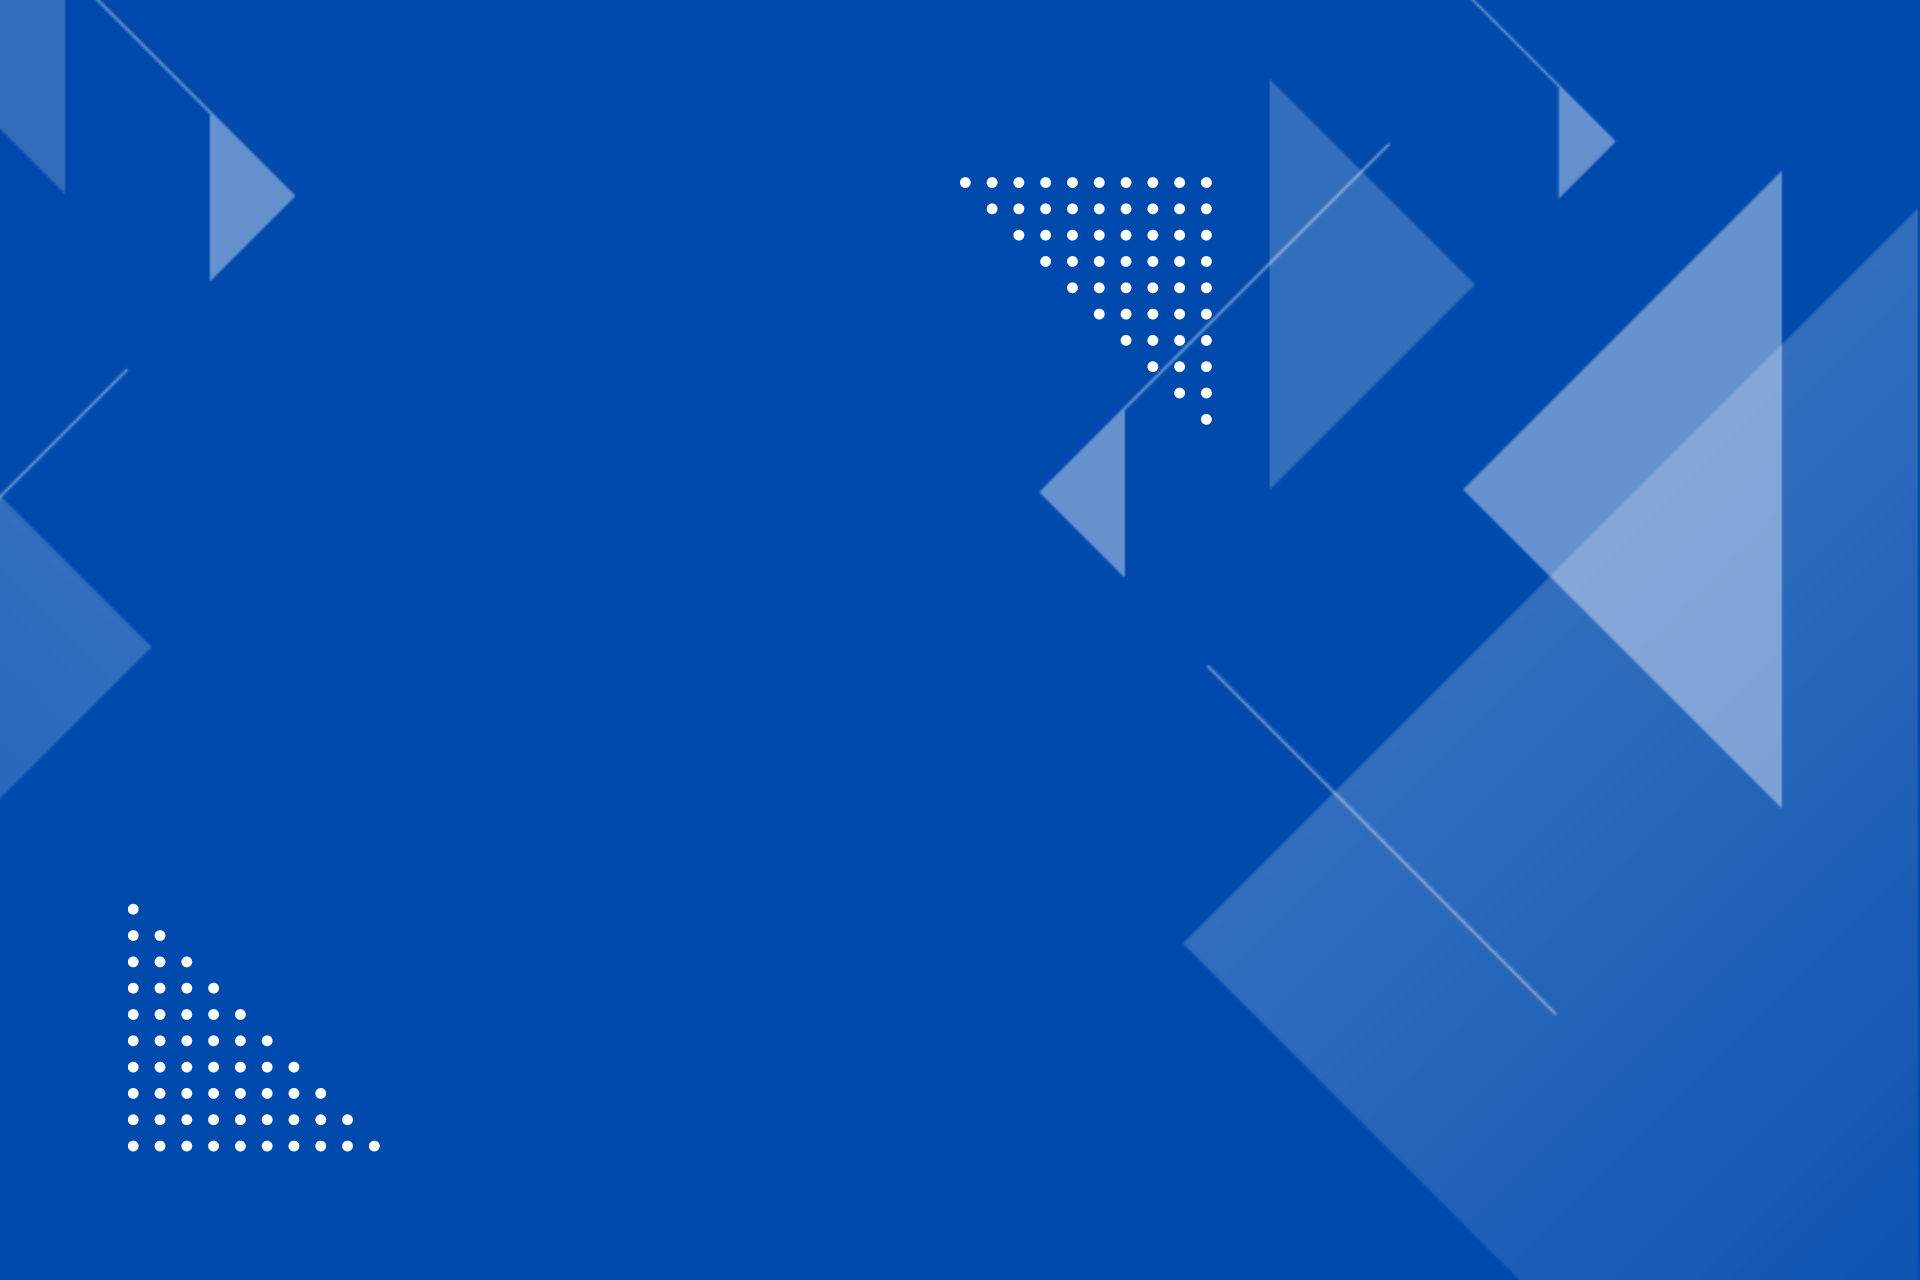
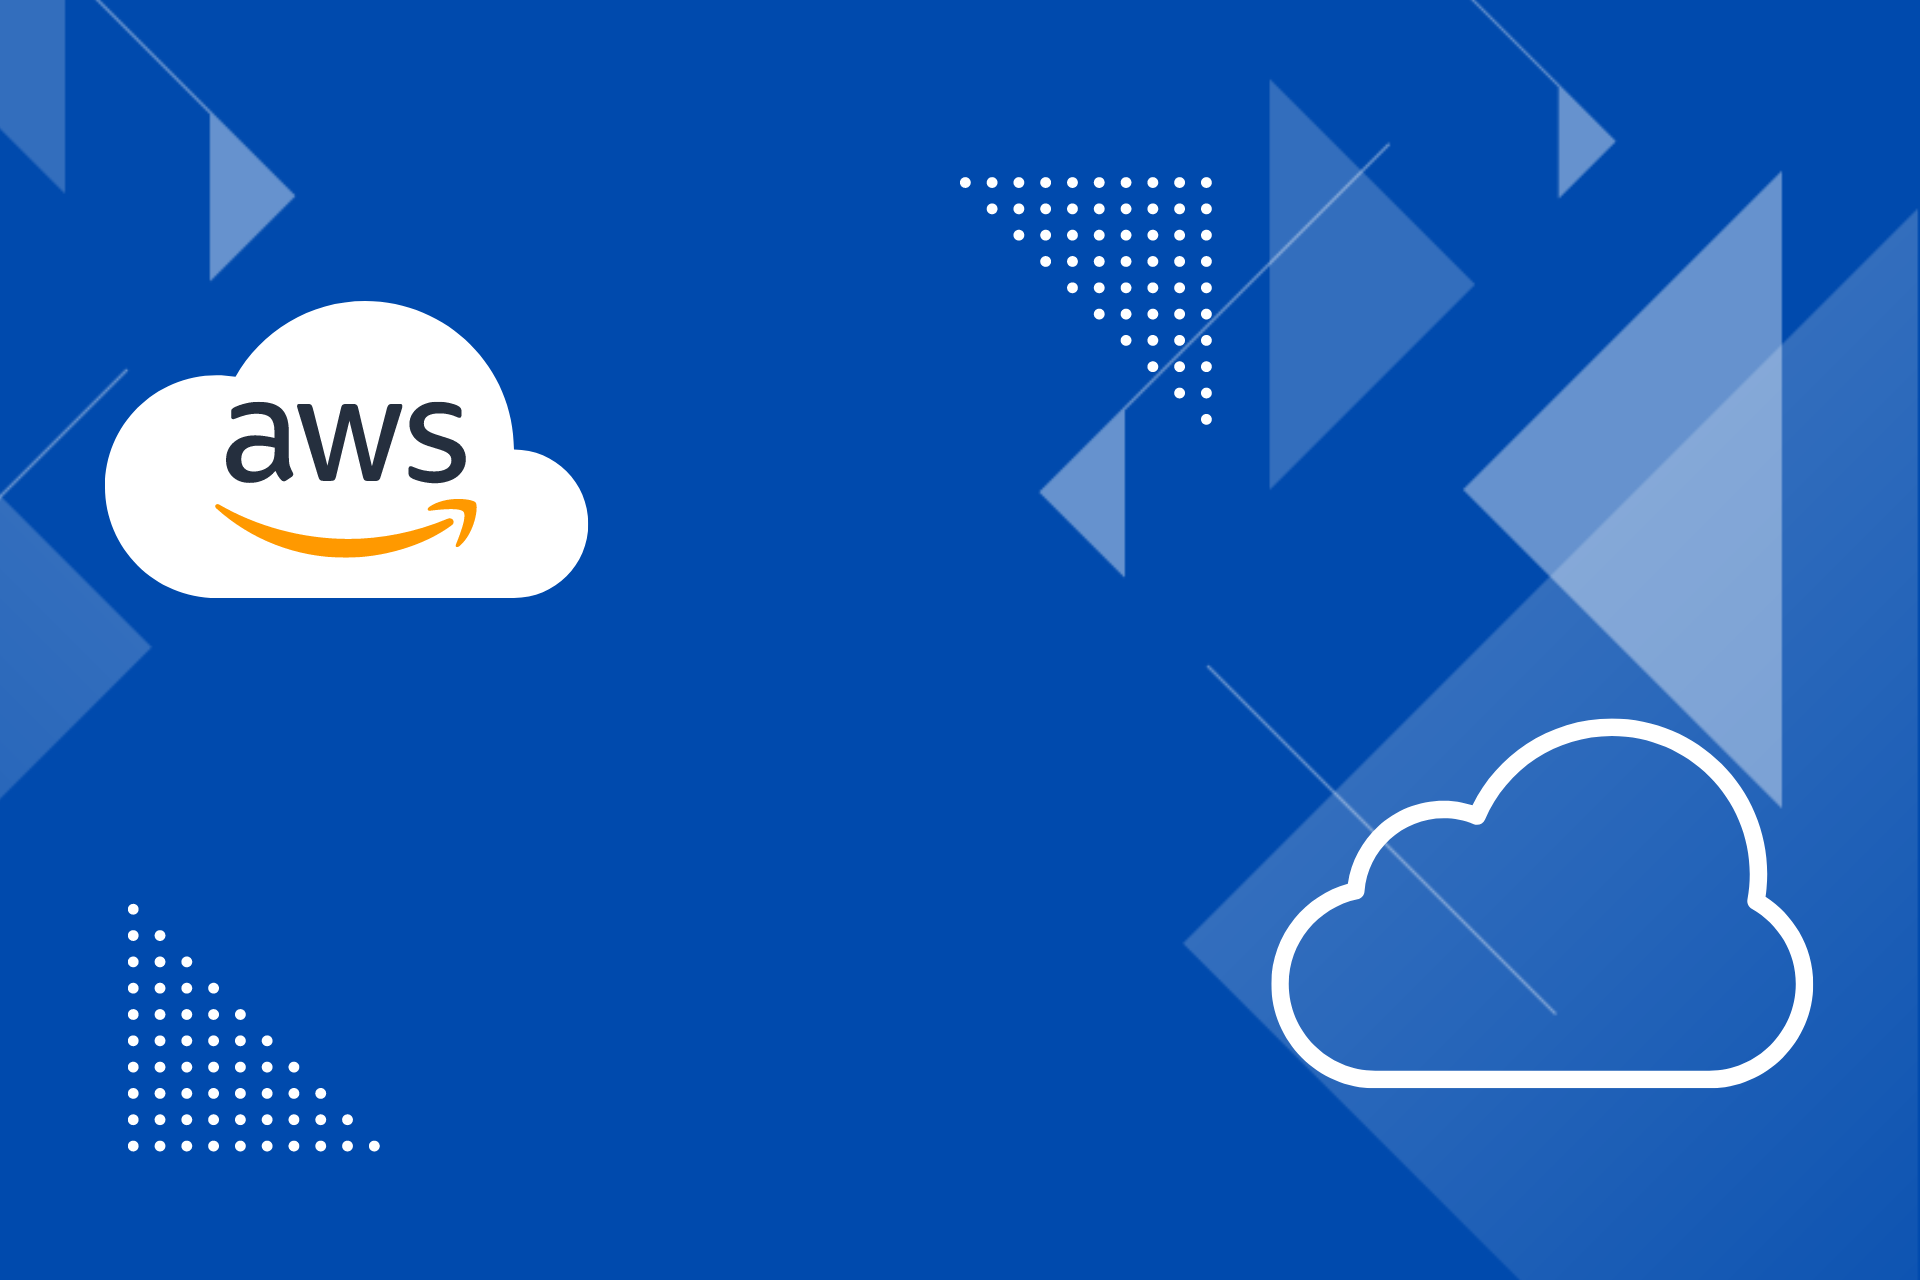
added updated html with new images and SES

diff --git a/index.html b/index.html
@@ -7,61 +7,51 @@
 <html>
 	<head>
 		<title>Cody Waits</title>
+		<link rel="shortcut icon" type="image/png" href="images/blueCloud.png">
 		<meta charset="utf-8" />
 		<meta name="viewport" content="width=device-width, initial-scale=1, user-scalable=no" />
 		<link rel="stylesheet" href="assets/css/main.css" />
 		<script src="https://code.jquery.com/jquery-3.6.0.min.js"></script>
-		<script>function submitToAPI(event) {
-			e.preventDefault();
-			var URL = "https://i28mac1hha.execute-api.us-east-1.amazonaws.com/launch-email";
-	 
-				 var Namere = /[A-Za-z]{1}[A-Za-z]/;
-				 if (!Namere.test($("#name").val())) {
-							  alert ("Name can not less than 2 characters");
-					 return;
-				 }
-				 
-				 if ($("#email").val()=="") {
-					 alert ("Please enter your email address");
-					 return;
-				 }
-	 
-				 var reeamil = /^([\w-\.]+@([\w-]+\.)+[\w-]{2,6})?$/;
-				 if (!reeamil.test($("#email").val())) {
-					 alert ("Please enter a valid email address");
-					 return;
-				 }
-	 
-			var name = $("#name").val();
-			var email = $("#email").val();
-			var message = $("#message").val();
-			var data = {
-			   name : name,
-			   email : email,
-			   message : message
-			 };
-	 
-			$.ajax({
-			  type: "POST",
-			  url : "https://i28mac1hha.execute-api.us-east-1.amazonaws.com/launch-email",
-			  dataType: "json",
-			  crossDomain: "true",
-			  contentType: "application/json; charset=utf-8",
-			  data: JSON.stringify(data),
-	 
-			  
-			  success: function () {
-				// clear form and show a success message
-				alert("Thanks for reaching out!");
-				document.getElementById("contact-form").reset();
-			location.reload();
-			  },
-			  error: function () {
-				// show an error message
-				alert("Something went wrong.");
-			  }});
-		  }</script>
+		<script>
+			function sendEmail() {
+			  // Get input values from the form
+			  var name = document.getElementById("name").value;
+			  var email = document.getElementById("email").value;
+			  var message = document.getElementById("message").value;
+		  
+			  // Prepare the request body
+			  var requestBody = {
+				name: name,
+				email: email,
+				message: message
+			  };
+		  
+			  // Make an HTTP POST request to the Lambda function
+			  fetch('https://affxsep1jg.execute-api.us-east-1.amazonaws.com/SES-send-email', {
+				method: 'POST',
+				body: JSON.stringify(requestBody)
+			  })
+			  .then(function(response) {
+				if (response.ok) {
+				  // Email sent successfully
+				  alert("Email sent successfully!");
+				  document.getElementById("name").value = "";
+				  document.getElementById("email").value = "";
+				  document.getElementById("message").value = "";
+				} else {
+				  // Error sending email
+				  alert("Failed to send email. Please try again later.");
+				}
+			  })
+			  .catch(function(error) {
+				// Error handling
+				console.error('Error:', error);
+				alert("An error occurred. Please try again later.");
+			  });
+			}
+		  </script>
 	</head>
+
 	<body class="is-preload">
 
 		<!-- Header -->
@@ -85,7 +75,7 @@
 		<!-- Bio -->
 			<section id="bio" class="main special">
 				<div class="container">
-					<span class="image fit primary"><img src="images/Blue Modern Technology Linktree Background.png" alt="" /></span>
+					<span class="image fit primary"><img src="images/tech.png" alt="" /></span>
 					<div class="content">
 						<header class="major">
 							<h2>Who I am</h2>
@@ -99,7 +89,7 @@
 		<!-- Certs -->
 			<section id="Certs" class="main special">
 				<div class="container">
-					<span class="image fit primary"><img src="images/pic02.jpg" alt="" /></span>
+					<span class="image fit primary"><img src="images/Blue Modern Technology Linktree Background.png" alt="" /></span>
 					<div class="content">
 						<header class="major">
 							<h2>Certifications</h2>
@@ -127,7 +117,7 @@
 		<!-- Skills -->
 			<section id="Skills" class="main special">
 				<div class="container">
-					<span class="image fit primary"><img src="images/pic03.jpg" alt="" /></span>
+					<span class="image fit primary"><img src="images/skills.png" alt="" /></span>
 					<div class="content">
 						<header class="major">
 							<h2>Skills</h2>
@@ -145,7 +135,7 @@
 		<!-- Employment -->
 		<section id="Employment" class="main special">
 			<div class="container">
-				<span class="image fit primary"><img src="images/pic03.jpg" alt="" /></span>
+				<span class="image fit primary"><img src="images/usArmyAirborne.png" alt="" /></span>
 				<div class="content">
 					<header>
 						<h2>Employment History</h2>
@@ -206,7 +196,7 @@
 		<!-- Education -->
 		<section id="Education" class="main special">
 			<div class="container">
-				<span class="image fit primary"><img src="images/pic03.jpg" alt="" /></span>
+				<span class="image fit primary"><img src="images/school.png" alt="" /></span>
 				<div class="content">
 					<header>
 						<h2>Education</h2>
@@ -228,6 +218,26 @@
 					</header>
 					<p>Mobile Application Development, Object Oriented Programming, Discrete Mathematics, Software Development</p>
 				</div>
+				<a href="#Entrepreneurship" class="goto-next scrolly">Next</a>
+			</div>
+		</section>
+
+		<!-- Skills -->
+		<section id="Entrepreneurship" class="main special">
+			<div class="container">
+				<span class="image fit primary"><img src="images/CombatCaddie.png" alt="" /></span>
+				<div class="content">
+					<header class="major">
+						<h2>Entrepreneurship</h2>
+					</header>
+					<img src="images/Combat Caddie Main.png" width = "150">
+					<h4><a href="https://www.combatcaddie.com">Combat Caddie LLC</a></h4>
+					<p>The military themed golf brand that anyone can wear. 5% of all profits are donated back to veterans. Whether you are new to the game of golf or a seasoned "veteran", you'll love the products we have to offer to show your love for the game!</p>
+				</div>
+				<ul class="icons">
+					<li><a href="https://instagram.com/combatcaddiellc?igshid=OGQ5ZDc2ODk2ZA==" class="icon brands fa-instagram" style="color: #467192;"><span  class="label">Instagram</span></a></li>
+					<li><a href="https://www.facebook.com/profile.php?id=100085611770994" class="icon brands fa-facebook-f" style="color: #467192;"><span class="label">Facebook</span></a></li>
+				</ul>
 				<a href="#footer" class="goto-next scrolly">Next</a>
 			</div>
 		</section>
@@ -308,7 +318,7 @@ print 'It took ' + i + ' iterations to sort the deck.';</code></pre>
 										<li><a href="#" class="icon brands fa-twitter"><span class="label">Twitter</span></a></li>
 										<li><a href="#" class="icon brands fa-facebook-f"><span class="label">Facebook</span></a></li>
 										<li><a href="#" class="icon brands fa-instagram"><span class="label">Instagram</span></a></li>
-										<li><a href="#" class="icon brands fa-github"><span class="label">Github</span></a></li>
+										<li><a href="#" class="icon brands fa-github" style="color: #467192;"><span class="label">Github</span></a></li>
 									</ul>
 								</div>
 							</div>
@@ -558,7 +568,7 @@ print 'It took ' + i + ' iterations to sort the deck.';</code></pre>
 					<header class="major">
 						<h2>Get in touch</h2>
 					</header>
-					<form onsubmit="submitToAPI(event)">
+					<form onsubmit="sendEmail()">
 						<div class="row gtr-uniform">
 							<div class="col-6 col-12-xsmall"><input type="text" name="name" id="name" placeholder="Name" /></div>
 							<div class="col-6 col-12-xsmall"><input type="email" name="email" id="email" placeholder="Email" /></div>
@@ -573,7 +583,8 @@ print 'It took ' + i + ' iterations to sort the deck.';</code></pre>
 				</div>
 				<footer>
 					<ul class="icons">
-						<!--<li><a href="#" class="icon brands alt fa-twitter"><span class="label">Twitter</span></a></li>-->
+						<li><a href="https://github.com/cwaits6/cloud-resume" class="icon brands fa-github" style="color: #D7D4DB;"><span class="label">Github</span></a></li>
+						<li><a href="https://www.linkedin.com/in/codywaits/" class="icon brands fa-linkedin" style="color: #D7D4DB;"><span class="label">LinkedIn</span></a></li>
 					</ul>
 					<!--<ul class="copyright">
 						<li>&copy; Untitled</li><li>Design: <a href="http://html5up.net">HTML5 UP</a></li><li>Demo Images: <a href="http://unsplash.com">Unsplash</a></li>

diff --git a/assets/css/main.css b/assets/css/main.css
@@ -85,7 +85,7 @@ input, select, textarea {
 	html {
 		background-color: #313a3d;
 		background-attachment: fixed,						fixed;
-		background-image: url("images/overlay.png"), url("../../images/bg.jpg");
+		background-image: url("images/overlay.png"), url("../../images/bg.png");
 		background-position: top left,					center center;
 		background-repeat: repeat,						none;
 		background-size: auto,						cover;
@@ -1981,7 +1981,7 @@ input, select, textarea {
 	}
 
 	label {
-		color: #61686b;
+		color: #467192;
 		display: block;
 		font-size: 0.9em;
 		font-weight: 700;
@@ -2075,7 +2075,7 @@ input, select, textarea {
 		input[type="checkbox"] + label,
 		input[type="radio"] + label {
 			text-decoration: none;
-			color: #6f7577;
+			color: #467192;
 			cursor: pointer;
 			display: inline-block;
 			font-size: 1em;
@@ -2123,7 +2123,7 @@ input, select, textarea {
 
 		input[type="checkbox"]:focus + label:before,
 		input[type="radio"]:focus + label:before {
-			box-shadow: inset 0 0 0 2px #8cd1a8;
+			box-shadow: inset 0 0 0 2px #467192;
 		}
 
 	input[type="radio"] + label:before {
@@ -2579,7 +2579,7 @@ input, select, textarea {
 		border-radius: 0;
 		border: 0;
 		box-shadow: inset 0 0 0 2px #dddddd;
-		color: #61686b !important;
+		color: #467192 !important;
 		cursor: pointer;
 		display: inline-block;
 		font-weight: 700;
@@ -2599,7 +2599,7 @@ input, select, textarea {
 		button:hover,
 		.button:hover {
 			background-color: rgba(144, 144, 144, 0.075);
-			color: #61686b !important;
+			color: #467192 !important;
 		}
 
 		input[type="submit"]:active,
@@ -2608,7 +2608,7 @@ input, select, textarea {
 		button:active,
 		.button:active {
 			background-color: rgba(144, 144, 144, 0.15);
-			color: #61686b !important;
+			color: #467192 !important;
 		}
 
 		input[type="submit"].icon,
@@ -2657,7 +2657,7 @@ input, select, textarea {
 		input[type="button"].primary,
 		button.primary,
 		.button.primary {
-			background-color: #8cd1a8;
+			background-color: #467192; /* Primary button color */
 			border: 0;
 			box-shadow: none;
 			color: #ffffff !important;
@@ -2668,7 +2668,7 @@ input, select, textarea {
 			input[type="button"].primary:hover,
 			button.primary:hover,
 			.button.primary:hover {
-				background-color: #9ed8b6;
+				background-color: #1A4560; /* Hover button color */
 			}
 
 			input[type="submit"].primary:active,
@@ -2676,7 +2676,7 @@ input, select, textarea {
 			input[type="button"].primary:active,
 			button.primary:active,
 			.button.primary:active {
-				background-color: #7aca9a;
+				background-color: #467192;
 			}
 
 			input[type="submit"].primary.icon:before,
@@ -2696,7 +2696,7 @@ input, select, textarea {
 		button:disabled,
 		.button.disabled,
 		.button:disabled {
-			background-color: #6f7577 !important;
+			background-color: #467192 !important;
 			box-shadow: none !important;
 			color: #fff !important;
 			cursor: default;
